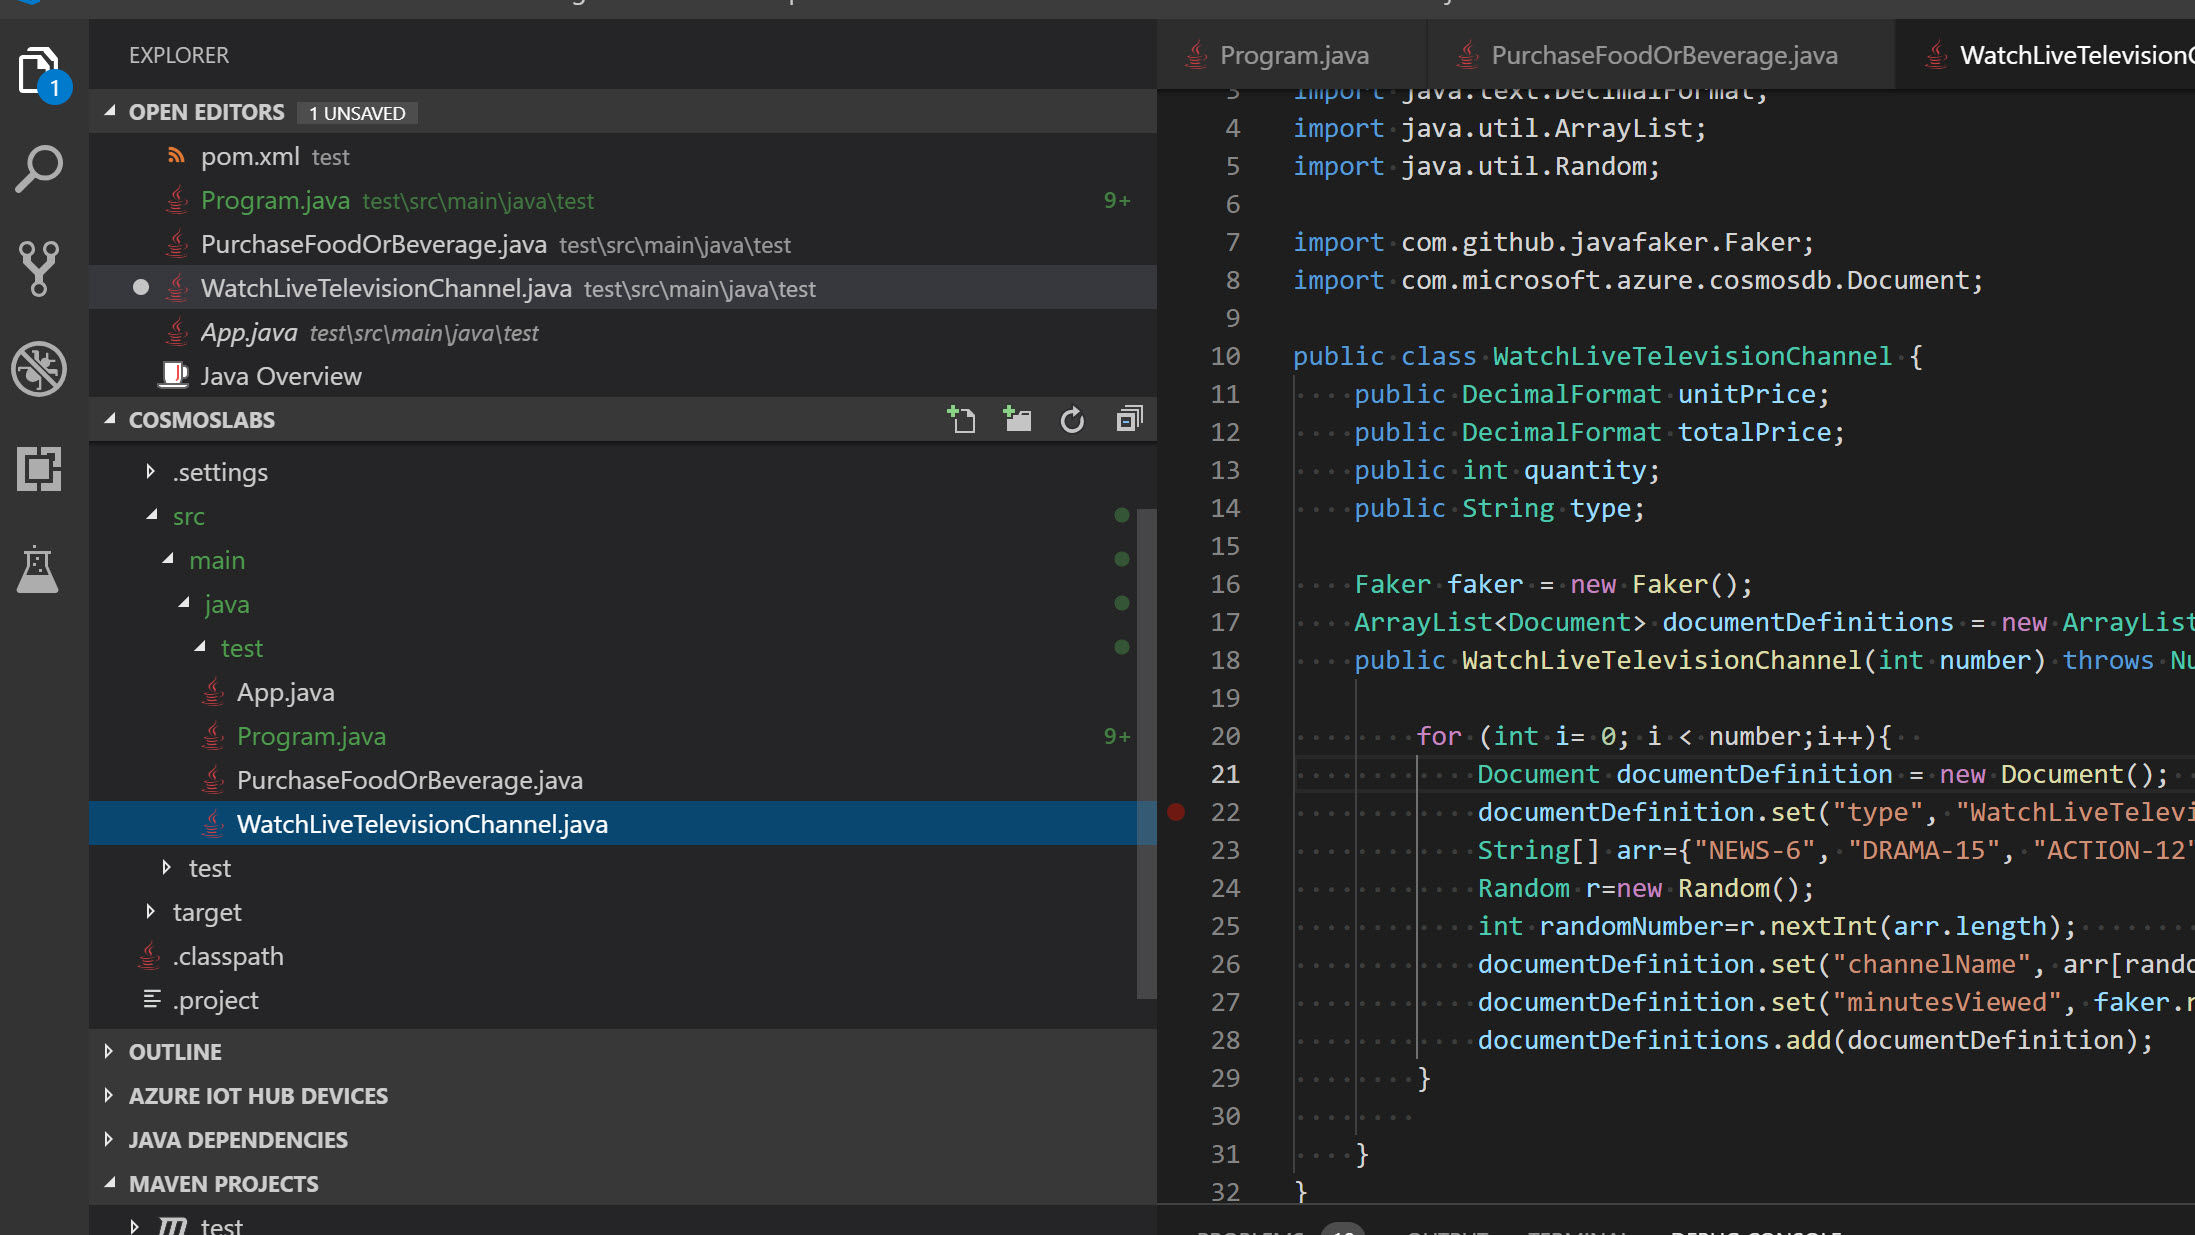
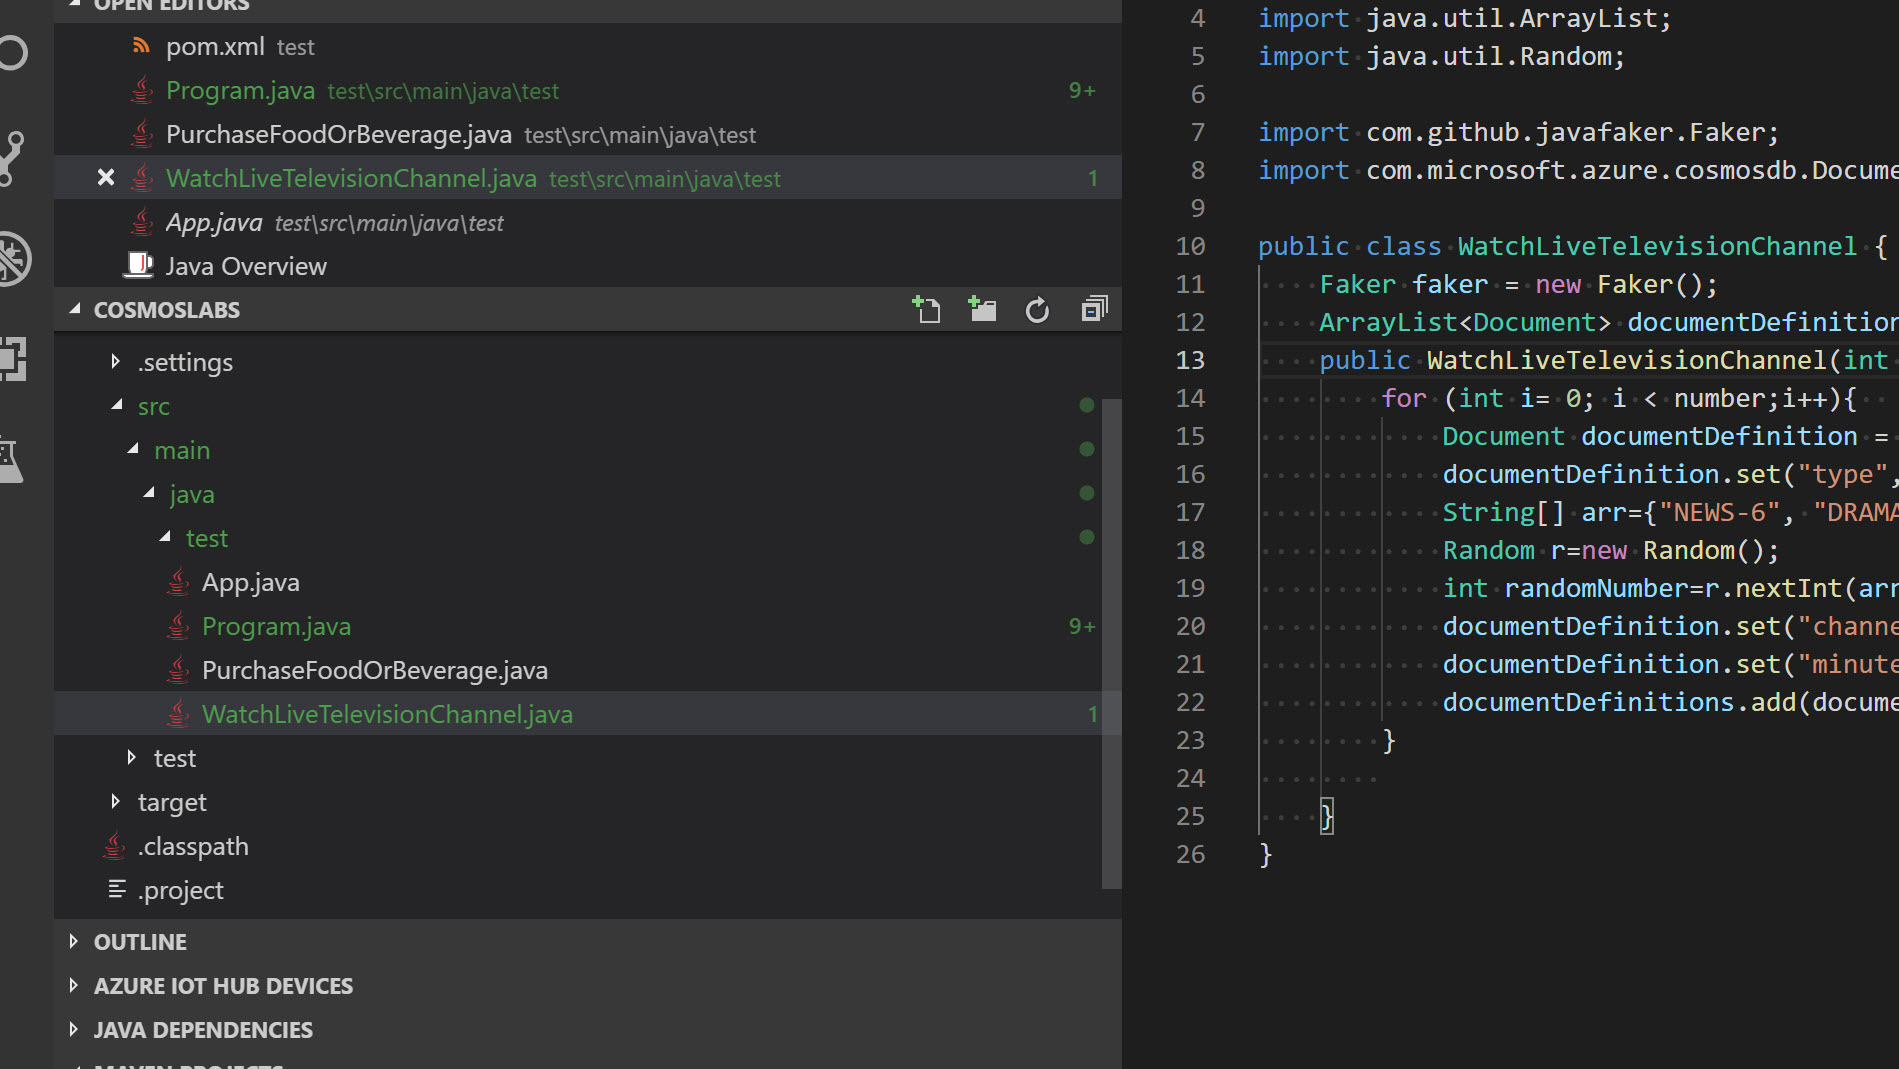
edits

diff --git a/java/technical_deep_dive/02-creating_multi_partition_solution.md b/java/technical_deep_dive/02-creating_multi_partition_solution.md
@@ -658,15 +658,9 @@ In this lab, you will create multiple Azure Cosmos DB containers. Some of the co
     import com.microsoft.azure.cosmosdb.Document;
 
     public class PurchaseFoodOrBeverage {
-        public DecimalFormat unitPrice;
-        public DecimalFormat totalPrice;
-        public int quantity;
-        public String type;
-
         Faker faker = new Faker();
         ArrayList<Document> documentDefinitions = new ArrayList<>();  
         public PurchaseFoodOrBeverage(int number) throws NumberFormatException {
-
             for (int i= 0; i < number;i++){  
                 Document documentDefinition = new Document(); 
                 DecimalFormat df = new DecimalFormat("###.###");      
@@ -678,8 +672,7 @@ In this lab, you will create multiple Azure Cosmos DB containers. Some of the co
                 String totalPrice = df.format(Double.valueOf(unitPrice) * quantity);
                 documentDefinition.set("totalPrice", Double.valueOf(totalPrice));
                 documentDefinitions.add(documentDefinition);
-            }
-            
+            }      
         }
     }
     ```
@@ -702,17 +695,12 @@ In this lab, you will create multiple Azure Cosmos DB containers. Some of the co
     import com.microsoft.azure.cosmosdb.Document;
 
     public class WatchLiveTelevisionChannel {
-        public DecimalFormat unitPrice;
-        public DecimalFormat totalPrice;
-        public int quantity;
-        public String type;
-
         Faker faker = new Faker();
         ArrayList<Document> documentDefinitions = new ArrayList<>();  
         public WatchLiveTelevisionChannel(int number) throws NumberFormatException {
-
             for (int i= 0; i < number;i++){  
-                Document documentDefinition = new Document();      
+                Document documentDefinition = new Document(); 
+                DecimalFormat df = new DecimalFormat("###.###");      
                 documentDefinition.set("type", "WatchLiveTelevisionChannel");   
                 String[] arr={"NEWS-6", "DRAMA-15", "ACTION-12", "DOCUMENTARY-4", "SPORTS-8"};
                 Random r=new Random();
@@ -720,8 +708,7 @@ In this lab, you will create multiple Azure Cosmos DB containers. Some of the co
                 documentDefinition.set("channelName", arr[randomNumber]);            
                 documentDefinition.set("minutesViewed", faker.random().nextInt(1, 45));
                 documentDefinitions.add(documentDefinition);
-            }
-            
+            }    
         }
     }
     ```
